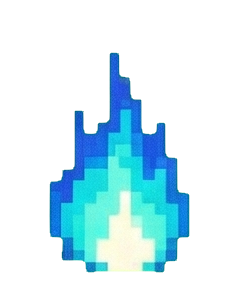
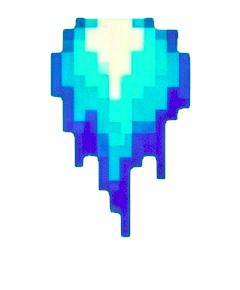
added some player animations

diff --git a/src/vue/sdl_view.c b/src/vue/sdl_view.c
@@ -77,6 +77,15 @@ SDL_Context *initSDLView(unsigned windowWidth, unsigned windowHeight) {
   ctx->enemyProjectileTexture =
       loadTexture(ctx->renderer, "src/assets/bullet_2.png");
 
+  ctx->exhaustTexture[0] =
+      loadTexture(ctx->renderer, "src/assets/player_fire_1.png");
+  ctx->exhaustTexture[1] =
+      loadTexture(ctx->renderer, "src/assets/player_fire_2.png");
+  ctx->exhaustTexture[2] =
+      loadTexture(ctx->renderer, "src/assets/player_fire_3.png");
+  ctx->exhaustTexture[3] =
+      loadTexture(ctx->renderer, "src/assets/player_fire_4.png");
+
   ctx->explosionTextures[0] =
       loadTexture(ctx->renderer, "src/assets/explosion_1.png");
   ctx->explosionTextures[1] =
@@ -114,6 +123,11 @@ void destroySDLView(SDL_Context *ctx) {
       SDL_DestroyTexture(ctx->explosionTextures[i]);
   }
 
+  for (int i = 0; i < 4; i++) {
+    if (ctx->exhaustTexture[i])
+      SDL_DestroyTexture(ctx->exhaustTexture[i]);
+  }
+
   if (ctx->renderer)
     SDL_DestroyRenderer(ctx->renderer);
   if (ctx->window)
@@ -137,6 +151,25 @@ void renderSDL(SDL_Context *ctx, const Player *player,
   } else {
     SDL_SetRenderDrawColor(ctx->renderer, 0, 0, 0, 255);
     SDL_RenderClear(ctx->renderer);
+  }
+
+  // 1.5 Draw Player Exhaust (NEW)
+  if (player->health > 0) { // Only draw if player is alive
+    int frame = player->animFrame;
+    if (ctx->exhaustTexture[frame]) {
+      // Calculate position: Centered horizontally, directly below the ship
+      float fireWidth = 20.0f; // Adjust based on your preference
+      float fireHeight = 30.0f;
+
+      SDL_FRect fireRect = {player->x + (player->width / 2.0f) -
+                                (fireWidth / 2.0f), // Center X
+                            player->y + player->height -
+                                5.0f, // Just below player (overlap slightly)
+                            fireWidth, fireHeight};
+
+      SDL_RenderTexture(ctx->renderer, ctx->exhaustTexture[frame], NULL,
+                        &fireRect);
+    }
   }
 
   // 2. Draw Player

diff --git a/src/model/player.c b/src/model/player.c
@@ -16,6 +16,9 @@ Player *createPlayer(float xAxis, unsigned height, unsigned width) {
   p->x = xAxis;
   p->y = Y_AXIS;
   p->score = 0;
+  p->animTimer = 0.0f;
+  p->animFrame = 0;
+  p->animDir = 1;
 
   return p;
 }
@@ -57,6 +60,19 @@ void updatePlayer(Player *player, float deltaTime, unsigned screenWidth) {
     player->shootTimer -= deltaTime;
     if (player->shootTimer < 0)
       player->shootTimer = 0;
+  }
+
+  player->animTimer += deltaTime;
+  if (player->animTimer >= 0.3f) {
+    player->animTimer = 0.0f;
+    player->animFrame += player->animDir;
+    if (player->animFrame >= 3) {
+      player->animFrame = 3;
+      player->animDir = -1;
+    } else if (player->animFrame <= 0) {
+      player->animFrame = 0;
+      player->animDir = 1;
+    }
   }
 }
 

diff --git a/src/includes/player.h b/src/includes/player.h
@@ -48,6 +48,9 @@ typedef struct _player {
       shootTimer;  /**< Countdown timer for reloading. 0 means ready to fire. */
   unsigned health; /**< Current lives/health remaining */
   unsigned score;
+  float animTimer;
+  int animFrame;
+  int animDir;
 } Player;
 
 /**

diff --git a/src/includes/sdl_view.h b/src/includes/sdl_view.h
@@ -27,6 +27,8 @@ typedef struct {
 
   SDL_Texture *playerExhaustTexture[4];
 
+  SDL_Texture *exhaustTexture[4];
+
   TTF_Font *font;
 } SDL_Context;
 
